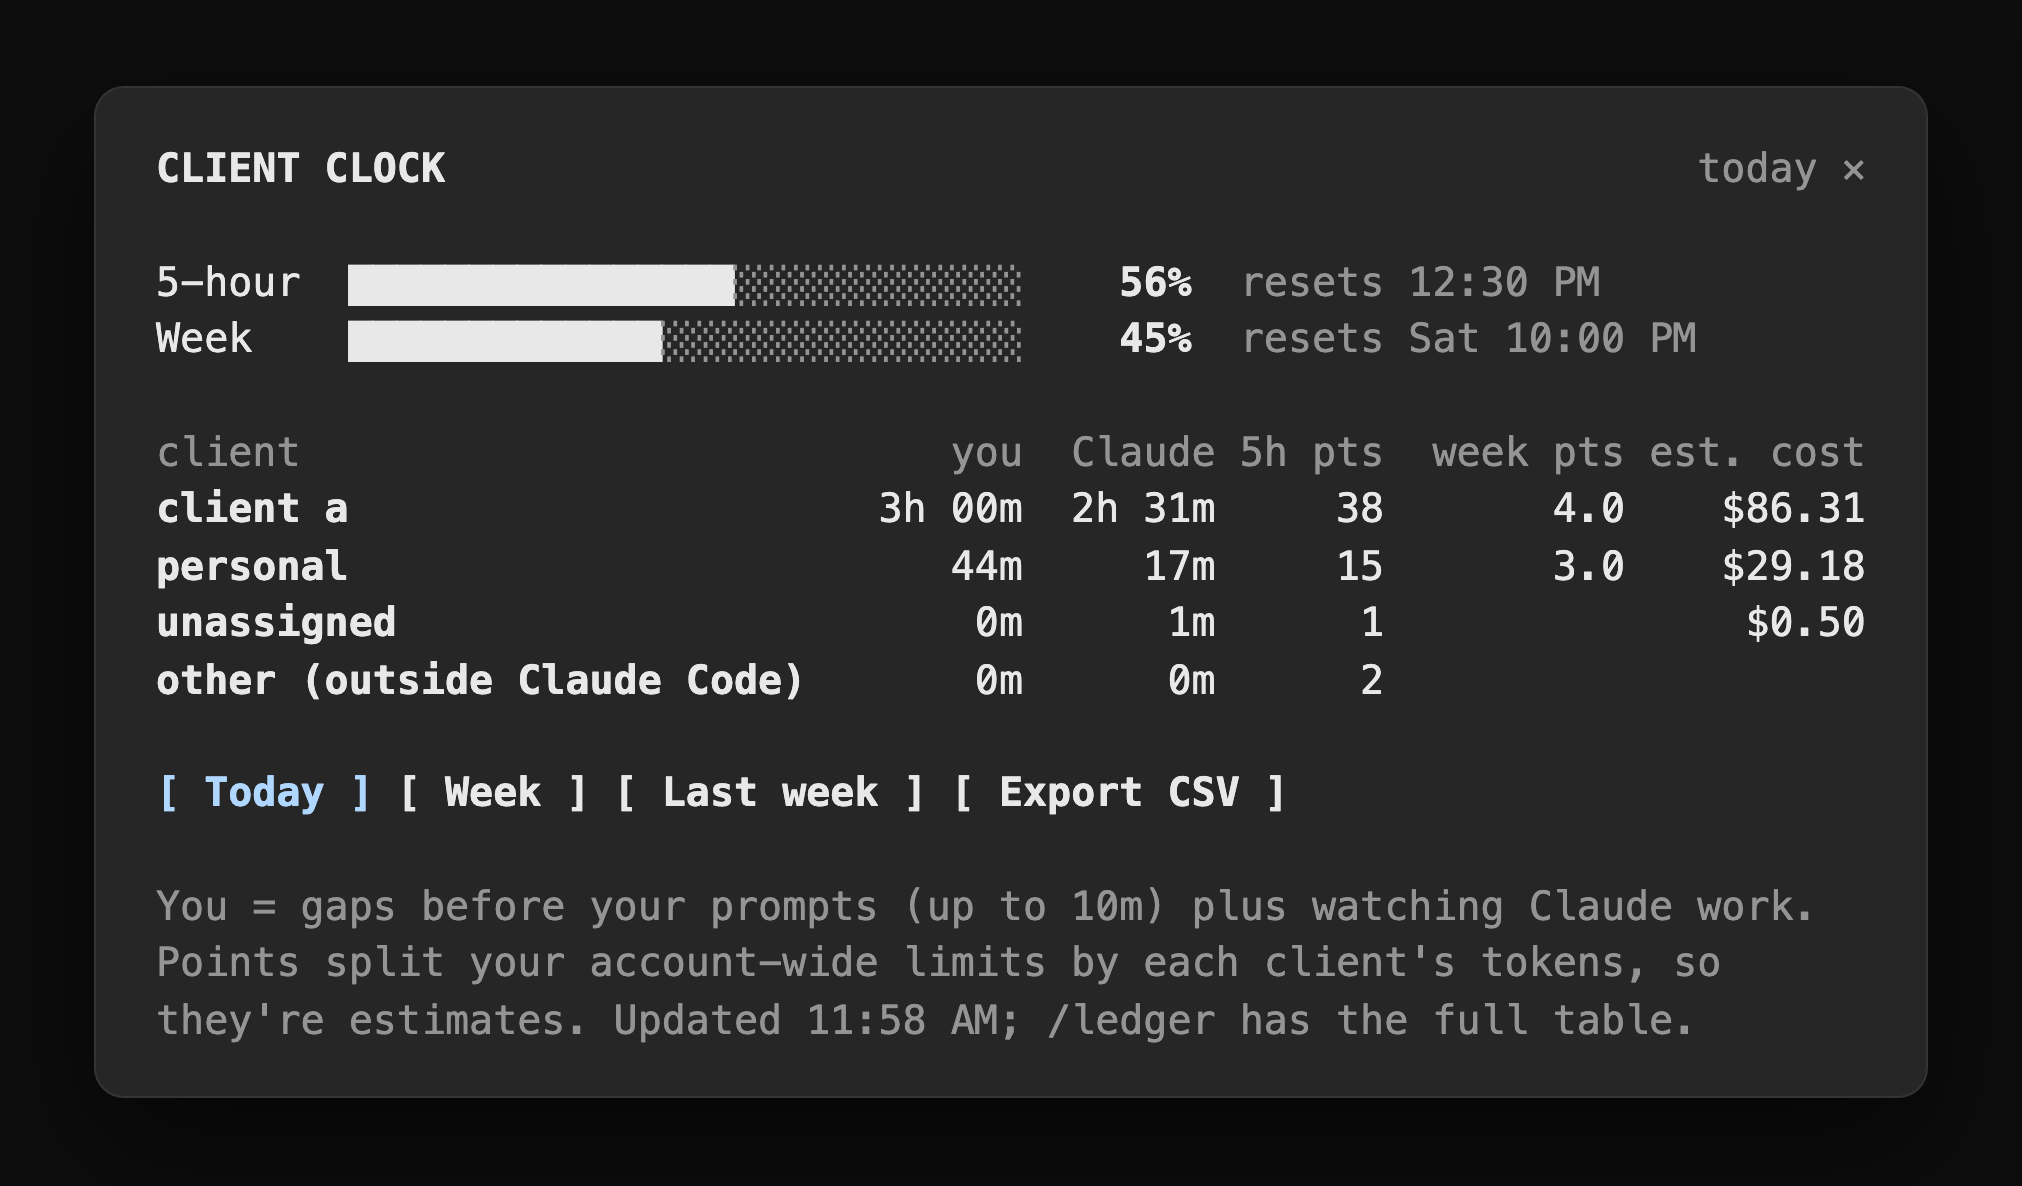
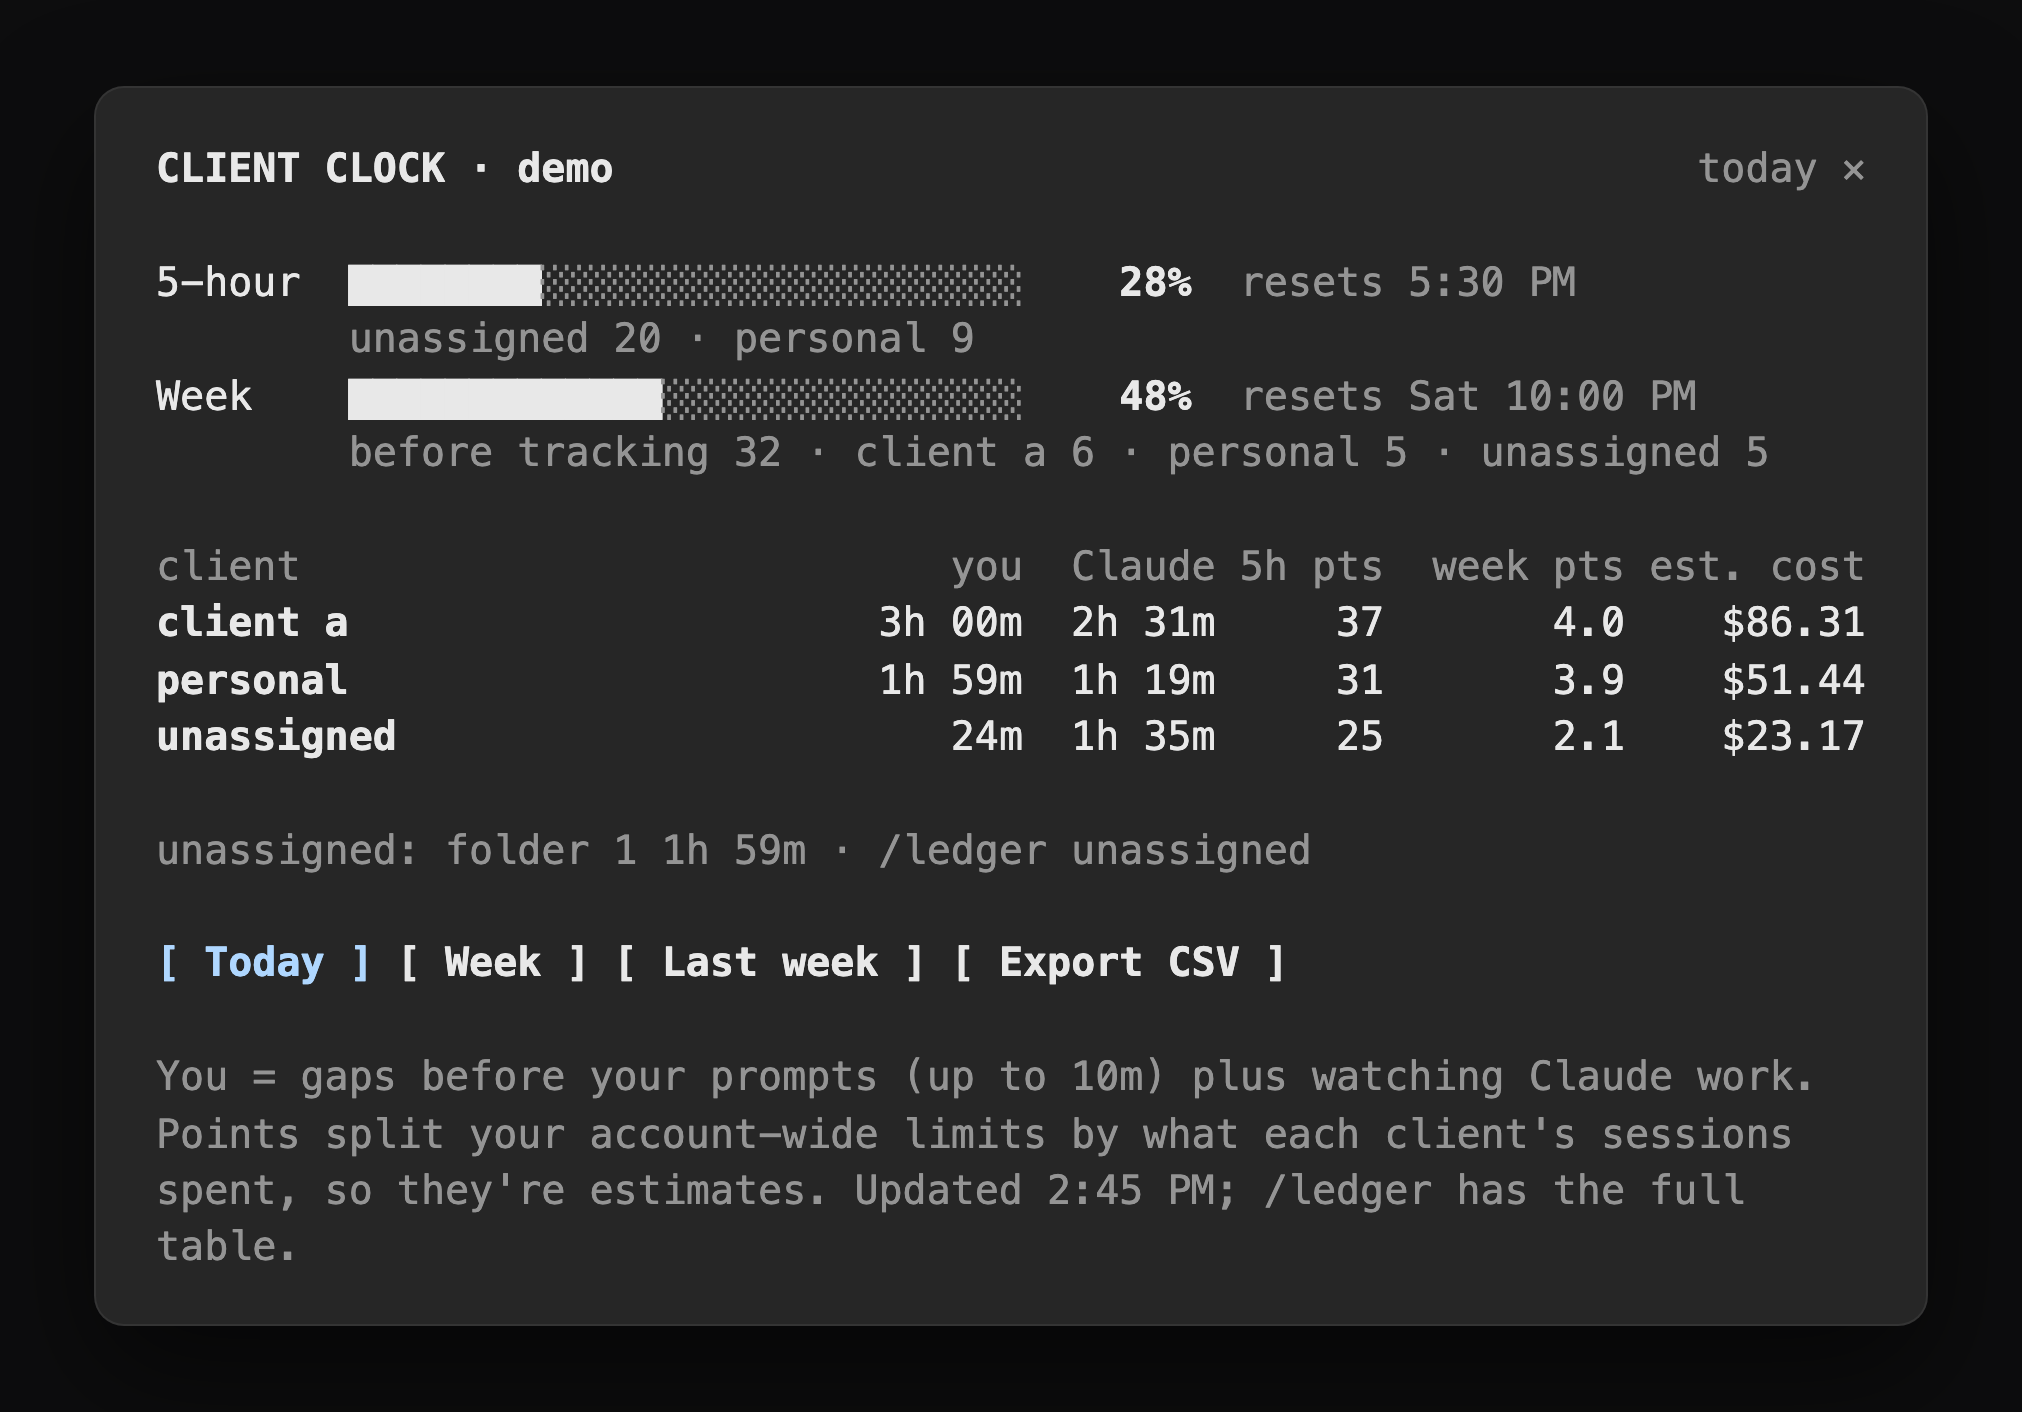
Quote CSV formulas, read cost from each usage reading, new screenshot
- A CSV cell that starts with =, +, - or @ gets a ' in front, so a spreadsheet
  shows it as text instead of running it (a commit message could start with one).
- Claude Code measures a session after each turn and when a window moves a
  whole point, so cost-only lines never fired; each usage reading already
  carries the running cost, which is what credits a running turn. Removed the
  cost lines and fixed the README.
- docs/clock-pane.png: the current pane, in demo mode.

diff --git a/hooks/register.tsx b/hooks/register.tsx
@@ -36,7 +36,6 @@ const period = atom({ plugin: 'client-clock', key: 'period' } as const, 'week')
 const PANE = 'client-clock'
 
 const IDLE_CAP_MS = 10 * 60 * 1000
-const COST_EVERY_MS = 60 * 1000
 const HUMAN_ORIGINS = new Set(['composer', 'bridge', 'sdk'])
 const PERSONAL = 'personal'
 const UNASSIGNED = 'unassigned'
@@ -52,7 +51,7 @@ type Limit = { k: string; p: number; r?: string }
 
 export type Rec = {
   t: number
-  kind: 'start' | 'prompt' | 'turn' | 'limits' | 'cost' | 'attach' | 'detach' | 'manual' | 'end'
+  kind: 'start' | 'prompt' | 'turn' | 'limits' | 'attach' | 'detach' | 'manual' | 'end'
   session?: string
   root?: string
   remote?: string
@@ -368,7 +367,7 @@ export function summarize(
           tot.agentMs += r.ms ?? 0
           tot.turns += 1
         }
-      } else if (r.kind === 'cost' || r.kind === 'limits') {
+      } else if (r.kind === 'limits') {
         mark(r.t, r.cost)
       } else if (r.kind === 'attach') {
         if (r.client && r.surface !== 'terminal') attached.set(r.client, r.t)
@@ -534,8 +533,11 @@ function money(usd: number) {
   return `$${usd.toFixed(usd < 100 ? 2 : 0)}`
 }
 
-function csvText(s: string) {
-  return `"${s.replace(/"/g, '""')}"`
+// Quoted for CSV. A leading =, +, - or @ gets a ' in front, so a spreadsheet shows the
+// value as text instead of running it as a formula (a commit message could start with one).
+export function csvText(s: string) {
+  const safe = /^[=+\-@\t\r]/.test(s) ? `'${s}` : s
+  return `"${safe.replace(/"/g, '""')}"`
 }
 
 function clockTime(iso?: string) {
@@ -915,13 +917,11 @@ function table(head: string[], rows: Array<Array<string | number>>) {
 // ---------- hooks ----------
 
 let timer: { cancel: () => void } | undefined
-let lastCostAt = 0
 
 export const register: Register = on => {
   on('session.start', async ($, e, next) => {
     ctx = null
     own = null
-    lastCostAt = 0
     const c = await context($)
     const map = await mapping($)
     const usage = await $.session.usage()
@@ -996,26 +996,18 @@ export const register: Register = on => {
     return next(e)
   })
 
-  // Readings of the usage windows, and the session's running cost as it grows (at most one
-  // a minute), so a turn still running counts for its client.
+  // Readings of the usage windows. The engine measures when a window moves a whole point,
+  // mid-turn too, so each reading carries the session's running cost: a turn still running
+  // counts for its client.
   on('session.measure', async ($, e, next) => {
-    const usd = e.cost?.usd
     if (e.changed.includes('rateLimits') && e.rateLimits.length) {
-      const t = await $.clock.now()
-      if (typeof usd === 'number') lastCostAt = t
       void append($, {
-        t,
+        t: await $.clock.now(),
         kind: 'limits',
         limits: e.rateLimits.map(l => ({ k: l.kind, p: l.percentUsed, r: l.resetsAt })),
-        cost: usd,
+        cost: e.cost?.usd,
       })
       void refreshBand($)
-    } else if (e.changed.includes('cost') && typeof usd === 'number') {
-      const t = await $.clock.now()
-      if (t - lastCostAt >= COST_EVERY_MS) {
-        lastCostAt = t
-        void append($, { t, kind: 'cost', cost: usd })
-      }
     }
     return next(e)
   })

diff --git a/tests/summarize.test.ts b/tests/summarize.test.ts
@@ -1,6 +1,6 @@
 import { expect, test } from 'claude-code/testing'
 
-import { commitsIn, labelFor, remoteKey, summarize } from '../hooks/register.tsx'
+import { commitsIn, csvText, labelFor, remoteKey, summarize } from '../hooks/register.tsx'
 import type { Rec } from '../hooks/register.tsx'
 
 const M = 60 * 1000
@@ -134,8 +134,7 @@ test('a turn still running counts for its client once it has spent something', a
     { t: t0, kind: 'start', session: 'a', root: '/r/acme', cost: 0 },
     { t: t0, kind: 'limits', session: 'a', limits: [{ k: 'five_hour', p: 10, r: resets }], cost: 0 },
     { t: t0 + M, kind: 'prompt', session: 'a', root: '/r/acme', origin: 'composer' },
-    // no turn line yet: the turn is still running
-    { t: t0 + 10 * M, kind: 'cost', session: 'a', cost: 2 },
+    // no turn line yet: the turn is still running, and the reading carries its cost so far
     { t: t0 + 12 * M, kind: 'limits', session: 'a', limits: [{ k: 'five_hour', p: 20, r: resets }], cost: 2.4 },
   ]
   const totals = summarize(recs, map, t0, t0 + H, t0 + H)
@@ -193,4 +192,11 @@ test('every clone of a repo shares one remote key', async () => {
     expect(remoteKey(url)).toBe('github.com/acme/site')
   }
   expect(remoteKey(null)).toBeNull()
+})
+
+test('CSV cells are quoted, and one a spreadsheet would run as a formula stays text', async () => {
+  expect(csvText('Fix the "booking" form')).toBe('"Fix the ""booking"" form"')
+  expect(csvText('=HYPERLINK("http://example.com")')).toBe('"\'=HYPERLINK(""http://example.com"")"')
+  expect(csvText('-1')).toBe('"\'-1"')
+  expect(csvText('acme')).toBe('"acme"')
 })

diff --git a/README.md b/README.md
@@ -72,7 +72,7 @@ A tool that calls Claude without Claude Code (claude.ai, the mobile app, another
 
 - **You**: the gap before each prompt you type, capped at 10 minutes so a break doesn't count. Watching from your phone or the web counts while Claude is working. Overlapping sessions count once, split between the clients active at that moment.
 - **Claude**: each turn's duration. Turns in parallel sessions can overlap, so this can add up to more than the clock time.
-- **Points**: the 5-hour and weekly limits are account-wide, so each rise between two readings is split by what each client's sessions spent at API prices in between. API prices weigh models and output the way limits roughly do, and each session logs its running cost at most once a minute, so a turn still running counts too. When no session logged a cost, the split falls back to tokens. These are estimates.
+- **Points**: the 5-hour and weekly limits are account-wide, so each rise between two readings is split by what each client's sessions spent at API prices in between. API prices weigh models and output the way limits roughly do. Every reading carries the session's running cost, so a turn still running counts too. When no session logged a cost, the split falls back to tokens. These are estimates.
 - **Other and before tracking**: usage it can't tie to any session shows as "other". The usage already in a window when the clock started shows as "before tracking".
 - **Cost**: what Claude Code reports the session would cost at API prices, counted from when the clock started.
 - **Billable**: your time at the client's rate.
